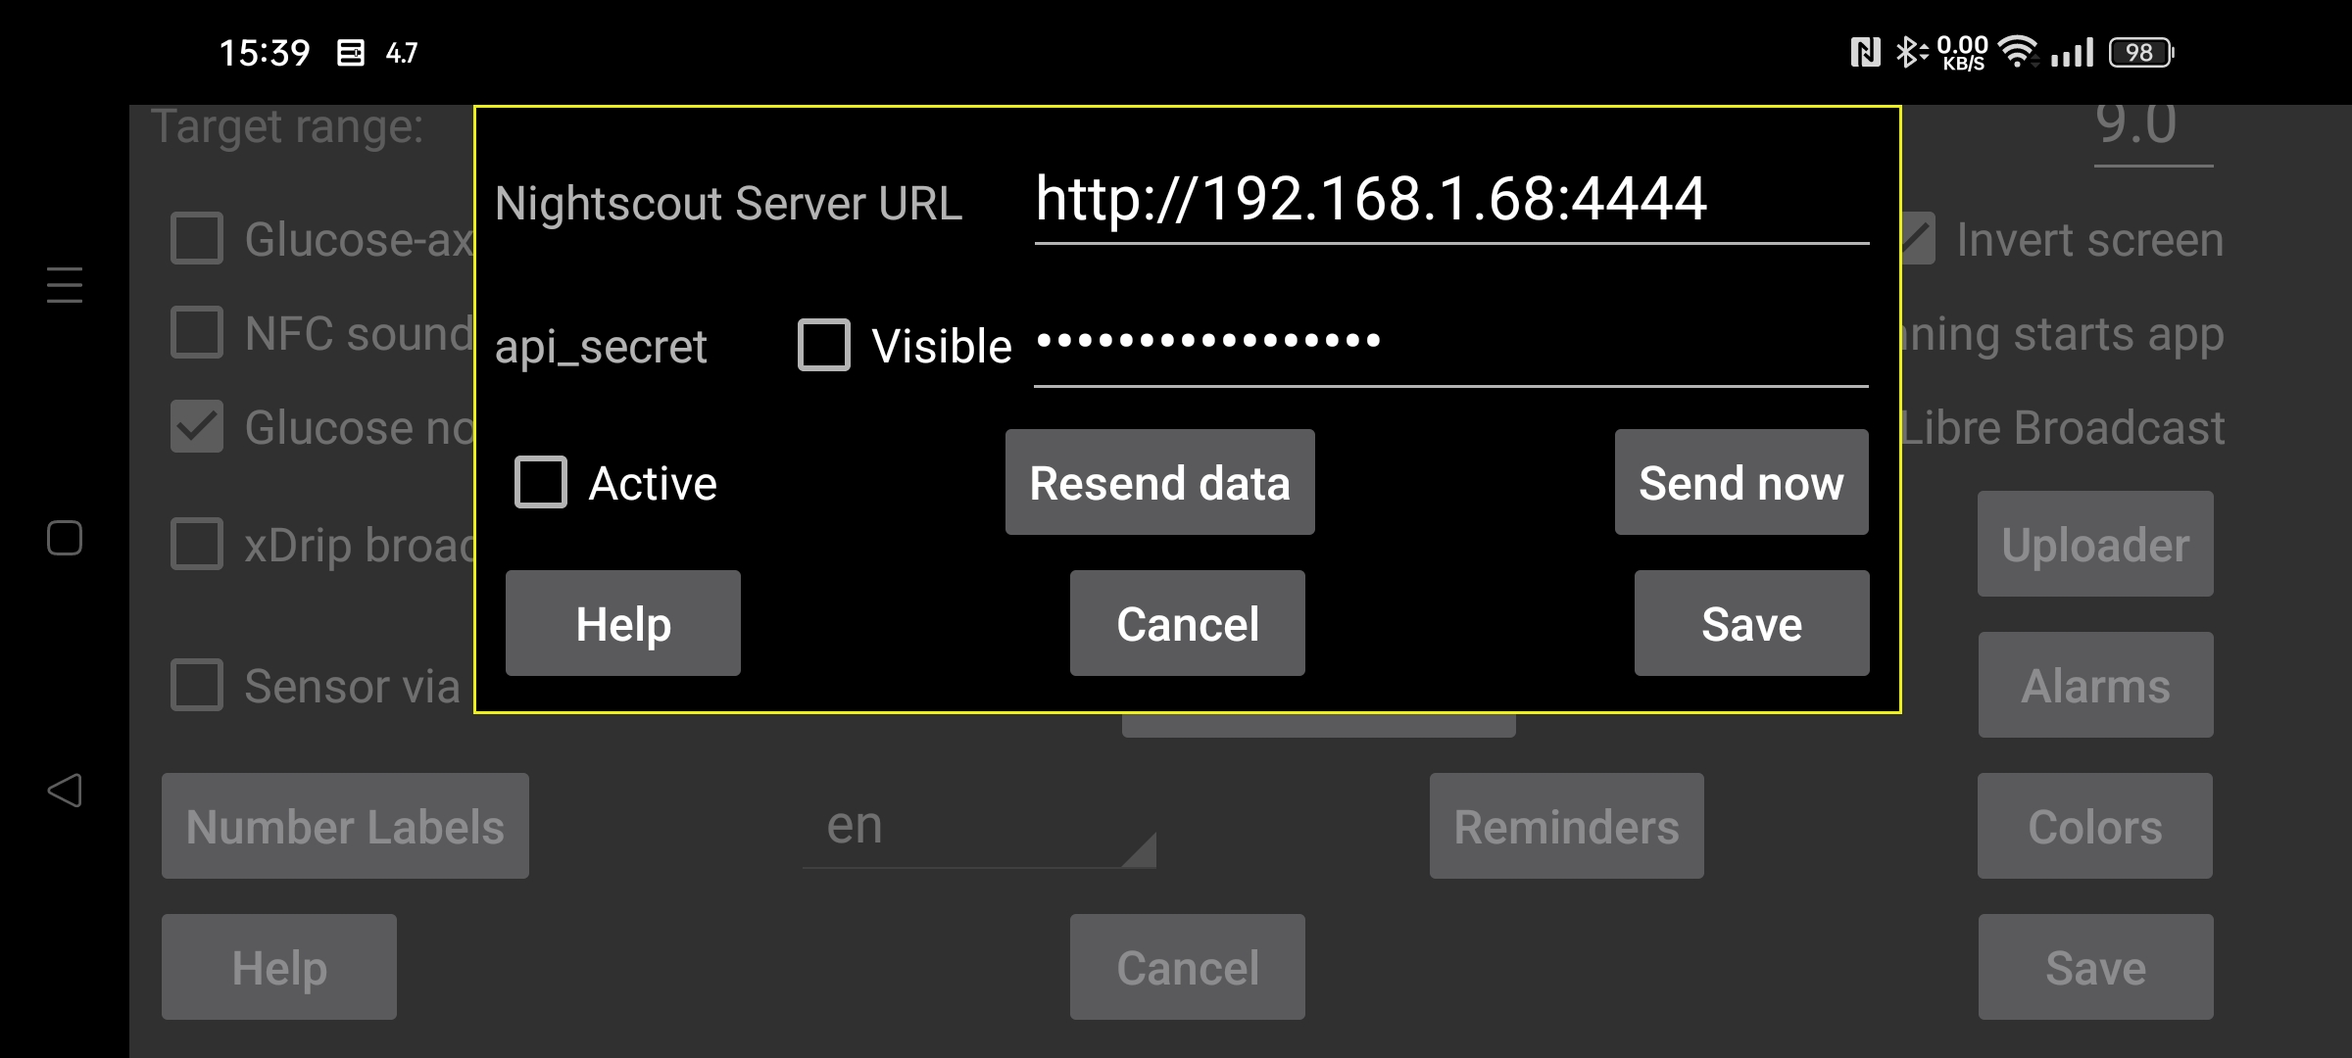
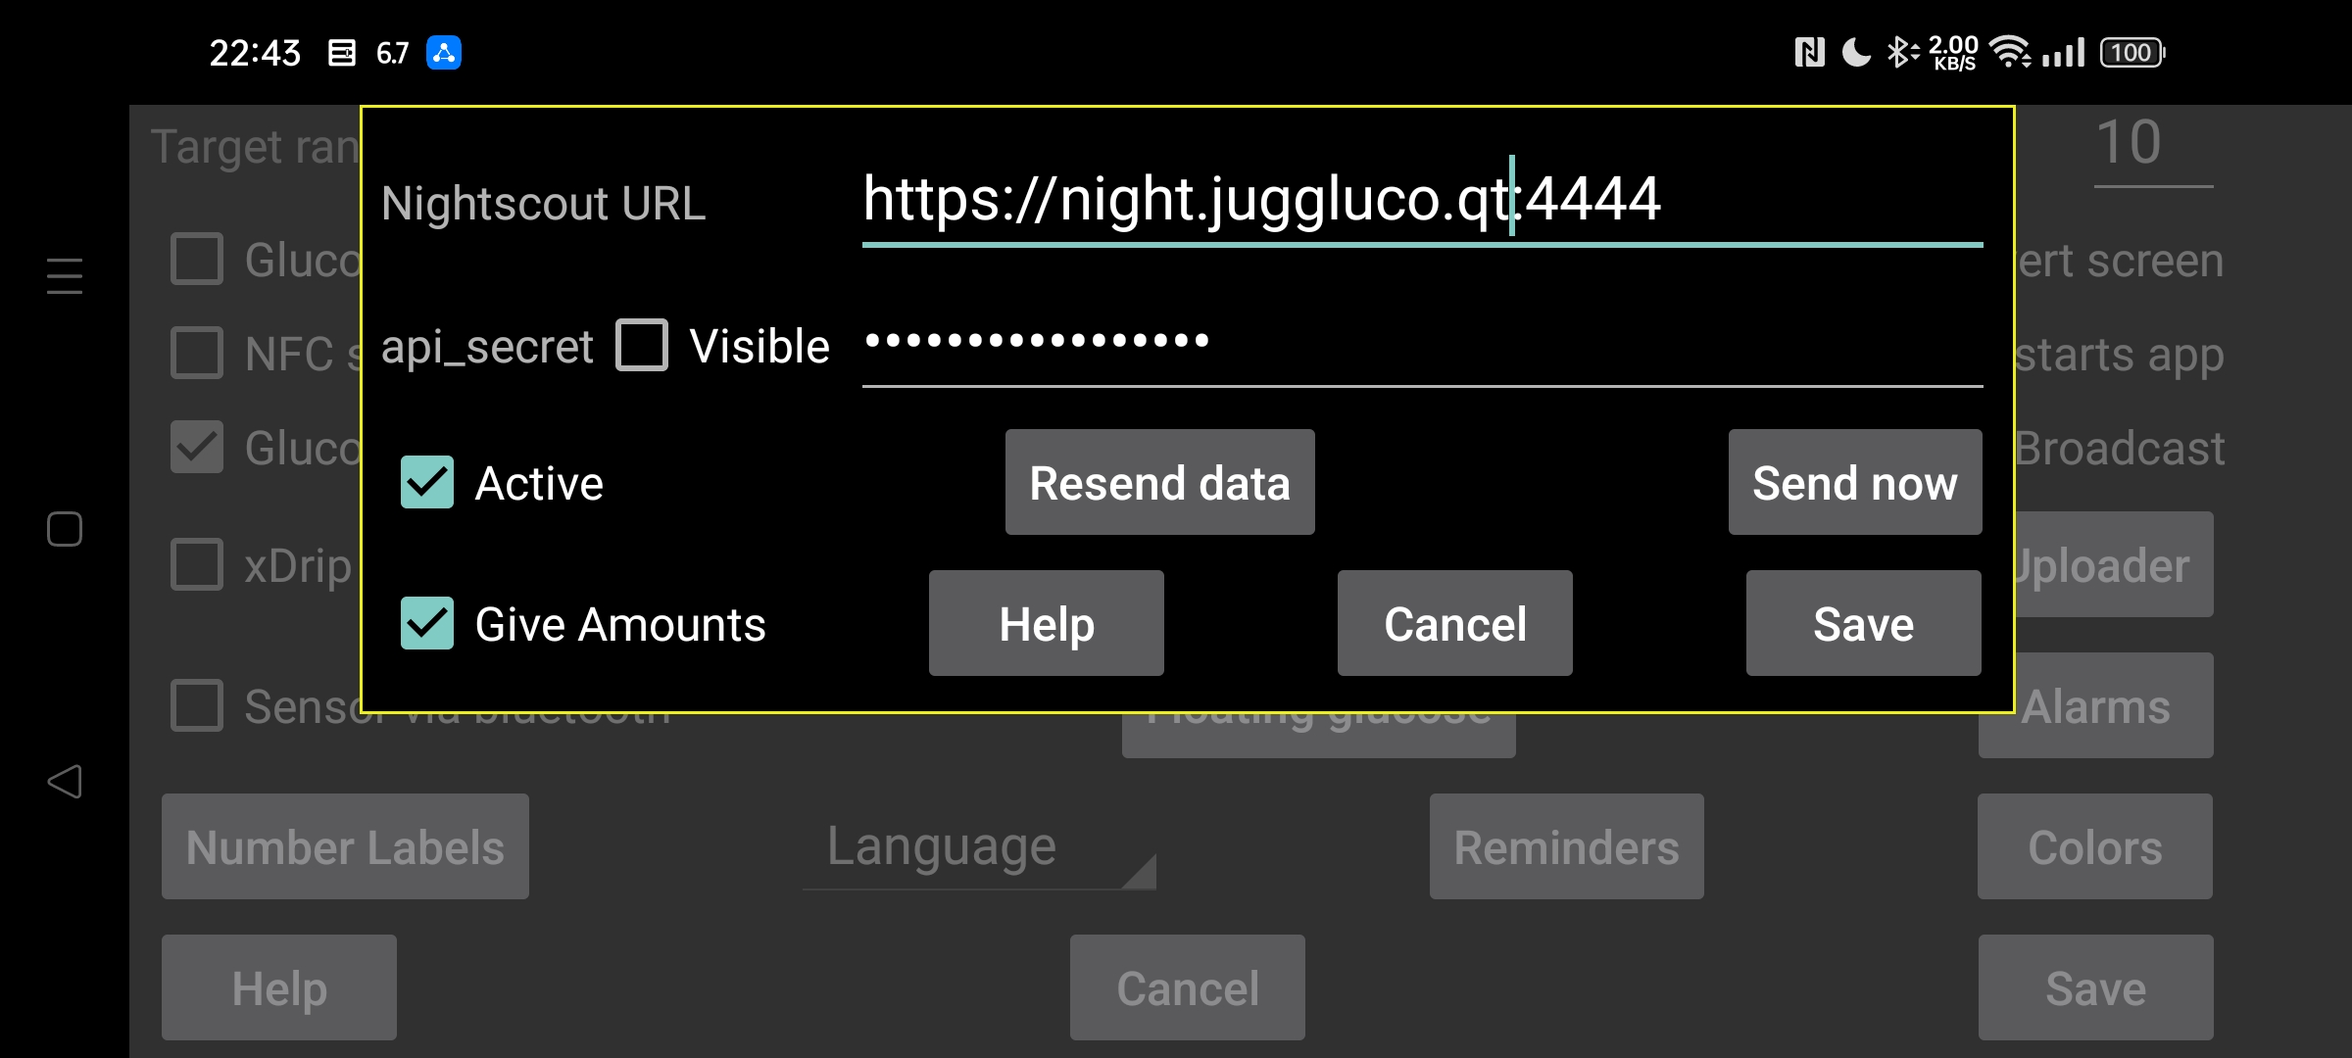
7.2.0

diff --git a/de/alarmhelp.html b/de/alarmhelp.html
@@ -3,8 +3,17 @@
 <head>
 	<meta http-equiv="content-type" content="text/html; charset=utf-8"/>
 	<title></title>
+	<meta name="generator" content="LibreOffice 7.5.9.2 (Linux)"/>
+	<meta name="created" content="00:00:00"/>
+	<meta name="changed" content="2024-01-08T10:28:07.924577594"/>
+	<style type="text/css">
+		h2.cjk { font-family: "Droid Sans Fallback" }
+		h2.ctl { font-family: "Droid Sans Devanagari" }
+		h3.cjk { font-family: "Droid Sans Fallback" }
+		h3.ctl { font-family: "Droid Sans Devanagari" }
+	</style>
 </head>
-<body lang="de-DE" dir="ltr"><h1 class="western" style="font-variant: normal; letter-spacing: normal; font-style: normal; font-weight: normal; orphans: 2; widows: 2">
+<body lang="de-DE" dir="ltr"><h1 style="font-variant: normal; letter-spacing: normal; font-style: normal; font-weight: normal; orphans: 2; widows: 2">
 <font face="Times New Roman">Alarm</font></h1>
 <h2 class="western" style="font-variant: normal; letter-spacing: normal; font-style: normal; font-weight: normal; orphans: 2; widows: 2; margin-top: 0.14in; margin-bottom: 0.08in; background: transparent">
 <font face="Liberation Sans, sans-serif"><font size="4" style="font-size: 16pt">Glukosealarme:</font></font></h2>
@@ -16,12 +25,12 @@ Alarme für niedrige und hohe Glukose einzustellen.</font></font></p>
 <font face="Liberation Sans, sans-serif">Niedriger Glukosewert:</font></h3>
 <p style="font-variant: normal; letter-spacing: normal; font-style: normal; font-weight: normal; orphans: 2; widows: 2">
 <font face="Times New Roman"><font size="4" style="font-size: 14pt">Wert,
-unter dem ein Alarm ausgelöst werden soll.</font></font></p>
+bei und unter dem ein Alarm ausgelöst werden soll.</font></font></p>
 <h3 class="western" style="font-variant: normal; letter-spacing: normal; font-style: normal; font-weight: normal; orphans: 2; widows: 2; margin-top: 0.1in; margin-bottom: 0.08in; background: transparent">
 <font face="Liberation Sans, sans-serif">Hoher Glukosewert:</font></h3>
 <p style="font-variant: normal; letter-spacing: normal; font-style: normal; font-weight: normal; orphans: 2; widows: 2">
 <font face="Times New Roman"><font size="4" style="font-size: 14pt">Wert,
-über dem ein Alarm ausgelöst werden soll.</font></font></p>
+bei und über dem ein Alarm ausgelöst werden soll.</font></font></p>
 <h3 class="western" style="font-variant: normal; letter-spacing: normal; font-style: normal; font-weight: normal; orphans: 2; widows: 2; margin-top: 0.1in; margin-bottom: 0.08in; background: transparent">
 <font face="Liberation Sans, sans-serif">Signalverlustalarm:</font></h3>
 <p style="font-variant: normal; letter-spacing: normal; font-style: normal; font-weight: normal; orphans: 2; widows: 2">
@@ -49,12 +58,12 @@ Juggluco berührt.</font></font></p>
 <h3 class="western" style="font-variant: normal; letter-spacing: normal; font-style: normal; font-weight: normal; orphans: 2; widows: 2; margin-top: 0.1in; margin-bottom: 0.08in; background: transparent">
 <font face="Liberation Sans, sans-serif">Verfügbarer Wert:</font></h3>
 <p style="font-variant: normal; letter-spacing: normal; font-style: normal; font-weight: normal; orphans: 2; widows: 2">
-Manchmal funktioniert der Sensor nicht. Wenn Sie dies einschalten, werden Sie benachrichtigt, wenn der Sensor
-wieder funktioniert, aber nur, wenn Sie in der Juggluco-App selbst
-gesehen haben, dass der Wert fehlt. Wenn
-Sie nur wissen, dass der Wert aufgrund der Benachrichtigung von
-Juggluco oder seines Zifferblatts gefehlt hat, wird die
-Benachrichtigung über den verfügbaren Wert nicht aufgerufe</p>
+Manchmal funktioniert der Sensor nicht. Wenn Sie dies einschalten,
+werden Sie benachrichtigt, wenn der Sensor wieder funktioniert, aber
+nur, wenn Sie in der Juggluco-App selbst gesehen haben, dass der Wert
+fehlt. Wenn Sie nur wissen, dass der Wert aufgrund der
+Benachrichtigung von Juggluco oder seines Zifferblatts gefehlt hat,
+wird die Benachrichtigung über den verfügbaren Wert nicht aufgerufe</p>
 <p style="font-variant: normal; letter-spacing: normal; font-style: normal; font-weight: normal; orphans: 2; widows: 2">
 Für jeden Alarm können Sie festlegen, welcher Klingelton wie lange
 abgespielt werden soll.</p>

diff --git a/alarmhelp.html b/alarmhelp.html
@@ -3,14 +3,9 @@
 <head>
 	<meta http-equiv="content-type" content="text/html; charset=utf-8"/>
 	<title>Alarms</title>
-	<meta name="generator" content="LibreOffice 7.5.2.2 (Linux)"/>
+	<meta name="generator" content="LibreOffice 7.5.9.2 (Linux)"/>
 	<meta name="created" content="00:00:00"/>
-	<meta name="changed" content="2023-05-08T10:03:17.667263869"/>
-	<meta name="created" content="00:00:00">
-	<meta name="created" content="00:00:00">
-	<meta name="created" content="00:00:00">
-	<meta name="created" content="00:00:00">
-	<meta name="created" content="00:00:00">
+	<meta name="changed" content="2024-01-08T10:26:10.445520939"/>
 	<style type="text/css">
 		h2 { margin-top: 0.14in; margin-bottom: 0.08in; background: transparent }
 		h2.western { font-family: "Liberation Sans", sans-serif; font-size: 16pt }
@@ -29,11 +24,11 @@
 received via Bluetooth can be used to set low and high glucose
 alarms.</p>
 <h3 class="western">Low glucose alarm:</h3>
-<p style="line-height: 100%; margin-bottom: 0in">Value below which an
-alarm should go off.</p>
+<p style="line-height: 100%; margin-bottom: 0in">Value at and below
+which an alarm should go off.</p>
 <h3 class="western">High glucose alarm:</h3>
-<p style="line-height: 100%; margin-bottom: 0in">Value above which an
-alarm should go off.</p>
+<p style="line-height: 100%; margin-bottom: 0in">Value at and above
+which an alarm should go off.</p>
 <h3 class="western">Loss of signal alarm:</h3>
 <p style="line-height: 100%; margin-bottom: 0in">Specify after how
 many minutes an alarm should go off if no glucose value is received
@@ -56,15 +51,16 @@ missing in the Juggluco app itself. When you only know that the value
 was missing because of Juggluco's notification or its watch face,
 will the value available notification not be evoked.</p>
 <p style="line-height: 100%; margin-bottom: 0in">For each alarm you
-can specify which <a href="https://www.juggluco.nl/Jugglucohelp/ringtone.html">Ringtone</a> to play and for how long.</p>
+can specify which <a href="https://www.juggluco.nl/Jugglucohelp/ringtone.html">Ringtone</a>
+to play and for how long.</p>
 <h3 class="western">Alarm is alarm:</h3>
-<p>When set, is the <a href="https://www.juggluco.nl/Jugglucohelp/ringtone.html">Ringtone</a> played for low, high and loss of signal
-alarms given the Android Alarms category. This means that in Android
-settings it's volume is managed with the Alarms volume level and it
-is not silenced when sound of the whole phone is turned off or set to
-vibration. When <i>Alarm is alarm</i> is not set, the ringtone volume
-level is used. This is always the case for the value available
-notification.</p>
+<p>When set, is the <a href="https://www.juggluco.nl/Jugglucohelp/ringtone.html">Ringtone</a>
+played for low, high and loss of signal alarms given the Android
+Alarms category. This means that in Android settings it's volume is
+managed with the Alarms volume level and it is not silenced when
+sound of the whole phone is turned off or set to vibration. When
+<i>Alarm is alarm</i> is not set, the ringtone volume level is used.
+This is always the case for the value available notification.</p>
 <h3 class="western"><br/>
 <br/>
 

diff --git a/NightPost.html b/NightPost.html
@@ -2,21 +2,17 @@
 <html>
 <head>
 	<meta http-equiv="content-type" content="text/html; charset=utf-8"/>
-	<title></title>
-	<meta name="generator" content="LibreOffice 7.5.2.2 (Linux)"/>
+	<title>Uploader</title>
+	<meta name="generator" content="LibreOffice 7.5.9.2 (Linux)"/>
 	<meta name="created" content="2023-03-10T12:04:13.361070488"/>
-	<meta name="changed" content="2023-05-15T17:57:32.523407317"/>
+	<meta name="changed" content="2024-01-08T12:47:03.330748057"/>
 </head>
  <img src="uploader.jpg" alt="Uploader" style="object-fit:contain; width:15cm;                   height:auto;">
-<body lang="en-US" dir="ltr"><p>Upload to a Nightscout server.</p>
-<p>In most cases you can also use the webserver in Juggluco or
-<a href="https://www.juggluco.nl/Juggluco/cmdline">juggluco-server</a>,
+<body lang="en-US" dir="ltr"><h1>Upload to a Nightscout server.</h1>
+<p>In most cases you can also use the <a href="https://www.juggluco.nl/Jugglucohelp/Nightscouthelp.html">web
+server in Juggluco</a> or <a href="https://www.juggluco.nl/Juggluco/cmdline">juggluco-server</a>,
 only AAPS and NSclient refuse to work when not connected to
-<a href="https://github.com/nightscout/cgm-remote-monitor">cgm-remote-monitor</a>.
-The web server in Juggluco also gives amounts in the form of
-Nightscout treatments
-(<a href="https://www.juggluco.nl/Juggluco/webserver.html">https://www.juggluco.nl/Juggluco/webserver.html</a>),
-the uploader only uploads glucose values.</p>
+<a href="https://github.com/nightscout/cgm-remote-monitor">cgm-remote-monitor</a>.</p>
 <p>All stream values are uploaded to the Nightscout server at the
 moment they arrive. When multiple sensor are used, all values of all
 sensors are uploaded. Some Garmin watch apps/faces/widgets assume
@@ -28,6 +24,17 @@ set to a lower value.</p>
 <p><b>URL</b>: the url should be in the form of https://hostname:port
 for example, https://myname.herokuapp.com:6789</p>
 <p><b>Active</b>: Turn on uploader</p>
+<p><b>Give Amounts</b>: Also send amounts as treatments to
+Nightscout. Touching the checkbox brings you to a dialog in which you
+can specify for every label what it means in Nightscout. These
+specifications are shared with web server in Juggluco (<a href="https://www.juggluco.nl/Jugglucohelp/Nightscouthelp.html">Left
+menu→Settings→Web server</a>). Only when all labels are handled,
+can you check “<i>Give Amounts</i>”. If you later add a new
+label, you have to remember yourself to specify what to do with it.
+<span lang="en-US">Because of a bug in <a href="https://github.com/nightscout/cgm-remote-monitor">Nightscout</a>,
+insertions at older time periods or deletions are only shown after
+items with a new time are added. </span><span lang="en-US">This means
+that it is better to send less often to Nightscout.</span></p>
 <p><b>Resend data</b>: Upload all data again to the Nightscout server</p>
 <p><b>Send now</b>: Normally data is immediately send when it arrives
 from the sensor or a mirror connection. Press on this button when for

diff --git a/de/NightPost.html b/de/NightPost.html
@@ -3,21 +3,19 @@
 <head>
 	<meta http-equiv="content-type" content="text/html; charset=utf-8"/>
 	<title></title>
-	<meta name="generator" content="LibreOffice 7.5.2.2 (Linux)"/>
+	<meta name="generator" content="LibreOffice 7.5.9.2 (Linux)"/>
 	<meta name="created" content="2023-03-10T12:04:13.361070488"/>
-	<meta name="changed" content="2023-04-28T12:27:20.549447188"/>
+	<meta name="changed" content="2024-01-08T12:52:02.967784211"/>
 </head>
 <body lang="de-DE" dir="ltr"><p>Auf einen Nightscout-Server
 hochladen. 
 </p>
-<p>In den meisten Fällen können Sie auch den Webserver in Juggluco
-oder <a href="https://www.juggluco.nl/Juggluco/cmdline">juggluco-server</a>
+<p><span lang="de-DE">In den meisten Fällen können Sie auch den
+<a href="https://www.juggluco.nl/Jugglucohelp/de/Nightscouthelp.html">Webserver
+in Juggluco</a> oder <a href="https://www.juggluco.nl/Juggluco/cmdline">juggluco-server</a>
 verwenden. Nur AAPS und NSclient verweigern die Arbeit, wenn
 <a href="https://github.com/nightscout/cgm-remote-monitor">cgm-remote-monitor</a>
-nicht verbunden ist. Der Webserver in Juggluco gibt auch Mengen in
-Form von Nightscout-Behandlungen aus (
-<a href="https://www.juggluco.nl/Juggluco/webserver.html">https://www.juggluco.nl/Juggluco/webserver.html</a>),
-der Uploader lädt nur Glukosewerte hoch.</p>
+nicht verbunden ist.</span></p>
 <p>Alle Stream-Werte werden im Moment ihres Eintreffens auf den
 Nightscout-Server hochgeladen. Wenn mehrere Sensoren verwendet
 werden, werden alle Werte aller Sensoren hochgeladen. Einige Garmin
@@ -30,6 +28,19 @@ auf einen niedrigeren Wert eingestellt ist.</p>
 <p><b>URL</b> : Die URL sollte die Form https://hostname:port haben,
 z. B. https://myname.herokuapp.com:6789</p>
 <p><b>Aktiv</b> : Server einschalten</p>
+<p><span lang="de-DE"><b>Mengen</b></span><span lang="de-DE"> </span><span lang="de-DE"><b>geben</b></span><span lang="de-DE">:
+Auch Mengen als Behandlungen an Nightscout senden. Durch Berühren
+der Checkbox gelangen Sie zu einem Dialog, in dem Sie für jedes
+Label festlegen können, was es in Nightscout bedeutet. Diese
+Spezifikationen werden mit dem Webserver in Juggluco geteilt ( <a href="https://www.juggluco.nl/Jugglucohelp/de/Nightscouthelp.html">Linkes
+Menü→Einstellungen→Webserver</a> ). Erst wenn alle Labels
+verarbeitet sind, können Sie „ </span><span lang="de-DE"><i>Mengen
+geben</i></span><span lang="de-DE">“ ankreuzen. Wenn Sie später
+ein neues Etikett hinzufügen, müssen Sie selbst festlegen, was
+damit geschehen soll. Aufgrund eines Fehlers in <a href="https://github.com/nightscout/cgm-remote-monitor">Nightscout</a>
+werden Einfügungen zu älteren Zeiträumen oder Löschungen erst
+angezeigt, nachdem Elemente mit einer neuen Zeit hinzugefügt wurden.
+Das bedeutet, dass es besser ist, seltener an Nightscout zu senden.</span></p>
 <p><b>Daten erneut senden</b>: Laden Sie alle Daten erneut auf den
 Nightscout-Server hoch</p>
 <p><b>Jetzt senden</b>: Normalerweise werden Daten sofort gesendet,

diff --git a/nl/NightPost.html b/nl/NightPost.html
@@ -3,20 +3,16 @@
 <head>
 	<meta http-equiv="content-type" content="text/html; charset=utf-8"/>
 	<title></title>
-	<meta name="generator" content="LibreOffice 7.5.2.2 (Linux)"/>
+	<meta name="generator" content="LibreOffice 7.5.9.2 (Linux)"/>
 	<meta name="created" content="2023-03-10T12:04:13.361070488"/>
-	<meta name="changed" content="2023-04-30T11:37:28.461614642"/>
+	<meta name="changed" content="2024-01-08T12:53:46.166916700"/>
 </head>
 <body lang="nl-NL" dir="ltr"><p>Uploaden naar een Nightscout-server. 
 </p>
-<p>In de meeste gevallen kun je ook de webserver in Juggluco of
-<a href="https://www.juggluco.nl/Juggluco/cmdline">juggluco-server</a>
+<p><span lang="nl-NL">In de meeste gevallen kun je ook de <a href="https://www.juggluco.nl/Jugglucohelp/nl/Nightscouthelp.html">webserver
+in Juggluco</a> of <a href="https://www.juggluco.nl/Juggluco/cmdline">juggluco-server</a>
 gebruiken. Alleen AAPS en NSclient weigeren te werken zonder
-verbinding met <a href="https://github.com/nightscout/cgm-remote-monitor">cgm-remote-monitor</a>.
-De webserver in Juggluco geeft ook hoeveelheden door in de vorm van
-Nightscout behandelingen (
-<a href="https://www.juggluco.nl/Juggluco/webserver.html">https://www.juggluco.nl/Juggluco/webserver.html</a>
-), de uploader uploadt alleen glucose waarden.</p>
+verbinding met <a href="https://github.com/nightscout/cgm-remote-monitor">cgm-remote-monitor</a>.</span></p>
 <p>Alle streamwaarden worden geüpload naar de Nightscout-server op
 het moment dat ze binnenkomen. Bij gebruik van meerdere sensoren
 worden alle waarden van alle sensoren geüpload. Sommige Garmin
@@ -30,6 +26,20 @@ wanneer &quot;interval=secs&quot; is ingesteld op een lagere waarde.</p>
 https://hostnaam:poort, bijvoorbeeld
 https://mijnnaam.herokuapp.com:6789</p>
 <p><b>Actief</b> : Zet de server aan</p>
+<p><span lang="nl-NL"><b>Geef hoeveelheden</b></span><span lang="nl-NL">:
+Stuur ook hoeveelheden als behandelingen naar Nightscout. Als je het
+selectievakje aanraakt, kom je in een dialoogvenster waarin je voor
+elk label kunt opgeven wat het in Nightscout betekent. Deze
+specificaties worden gedeeld met de webserver in Juggluco (
+<a href="https://www.juggluco.nl/Jugglucohelp/nl/Nightscouthelp.html">linkermenu
+→ Instellingen → Webserver</a> ). Pas als alle labels zijn
+afgehandeld, kunt je “Geef hoeveelheden” aanvinken. Als je later
+een nieuw label toevoegt, moet je er zelf aan denken te specificeren
+wat er mee moet gebeuren. Vanwege een bug in <a href="https://github.com/nightscout/cgm-remote-monitor">Nightscout</a>
+worden invoegingen </span><span lang="nl-NL">op eerdere tijdstippen</span><span lang="nl-NL">
+of verwijderingen pas getoond nadat items met een nieuwe tijd zijn
+toegevoegd. Dit betekent dat het beter is om minder vaak naar
+Nightscout te sturen.</span></p>
 <p><b>Herzend data</b>: Upload alle gegevens opnieuw naar de
 Nightscout-server</p>
 <p><b>Zend nu</b> : Normaal gesproken worden gegevens direct

diff --git a/nl/alarmhelp.html b/nl/alarmhelp.html
@@ -3,6 +3,15 @@
 <head>
 	<meta http-equiv="content-type" content="text/html; charset=utf-8"/>
 	<title></title>
+	<meta name="generator" content="LibreOffice 7.5.9.2 (Linux)"/>
+	<meta name="created" content="00:00:00"/>
+	<meta name="changed" content="2024-01-08T10:28:55.932215007"/>
+	<style type="text/css">
+		h2.cjk { font-family: "Droid Sans Fallback" }
+		h2.ctl { font-family: "Droid Sans Devanagari" }
+		h3.cjk { font-family: "Droid Sans Fallback" }
+		h3.ctl { font-family: "Droid Sans Devanagari" }
+	</style>
 </head>
 <body lang="nl-NL" dir="ltr"><h1>Alarmen</h1>
 <h2 class="western">Glucose alarmen: 
@@ -11,11 +20,11 @@
 ontvangen (stream) glucose waarde kan gebruikt worden om een alarm af
 te laten gaan.</p>
 <h2 class="western">Laag glucose alarm</h2>
-<p style="line-height: 100%; margin-bottom: 0in">Waarde waar onder
-het alarm af moet gaan.</p>
+<p style="line-height: 100%; margin-bottom: 0in">Waarde waarbij en
+waaronder het alarm af moet gaan.</p>
 <h2 class="western">Hoog glucose alarm</h2>
-<p style="line-height: 100%; margin-bottom: 0in">Waarde waar boven
-het alarm af moet gaan.</p>
+<p style="line-height: 100%; margin-bottom: 0in">Waarde waarbij
+waarboven het alarm af moet gaan.</p>
 <h2 class="western">Signaal verlies alarm</h2>
 <p style="line-height: 100%; margin-bottom: 0in">Geef aan na hoeveel
 minuten geen glucose waarde via Bluetooth ontvangen moet zijn,
@@ -35,14 +44,14 @@ een van het volgende:</p>
 </ul>
 <h2 class="western">Waarde aanwezig melding</h2>
 <p style="font-variant: normal; letter-spacing: normal; font-style: normal; font-weight: normal; orphans: 2; widows: 2">
-Soms werkt de sensor niet. Als deze optie aanstaat, krijg je een melding
-als de sensor weer werkt, maar pas als je hebt gezien dat de waarde
-ontbreekt in de Juggluco-app zelf. Als je alleen weet dat de waarde
-ontbrak vanwege de melding van Juggluco of de wijzerplaat, wordt de
-waarde aanwezig melding niet opgeroepen.</p>
+Soms werkt de sensor niet. Als deze optie aanstaat, krijg je een
+melding als de sensor weer werkt, maar pas als je hebt gezien dat de
+waarde ontbreekt in de Juggluco-app zelf. Als je alleen weet dat de
+waarde ontbrak vanwege de melding van Juggluco of de wijzerplaat,
+wordt de waarde aanwezig melding niet opgeroepen.</p>
 <p style="font-variant: normal; letter-spacing: normal; font-style: normal; font-weight: normal; orphans: 2; widows: 2">
-Voor elk alarm kun je aangeven welke beltoon moet worden afgespeeld en
-voor hoe lang.</p>
+Voor elk alarm kun je aangeven welke beltoon moet worden afgespeeld
+en voor hoe lang.</p>
 <h2 class="western">Alarm is alarm:</h2>
 <p style="line-height: 100%; margin-bottom: 0in">Indien ingesteld,
 krijgt de beltoon afgespeeld voor laag, hoog en verlies van
